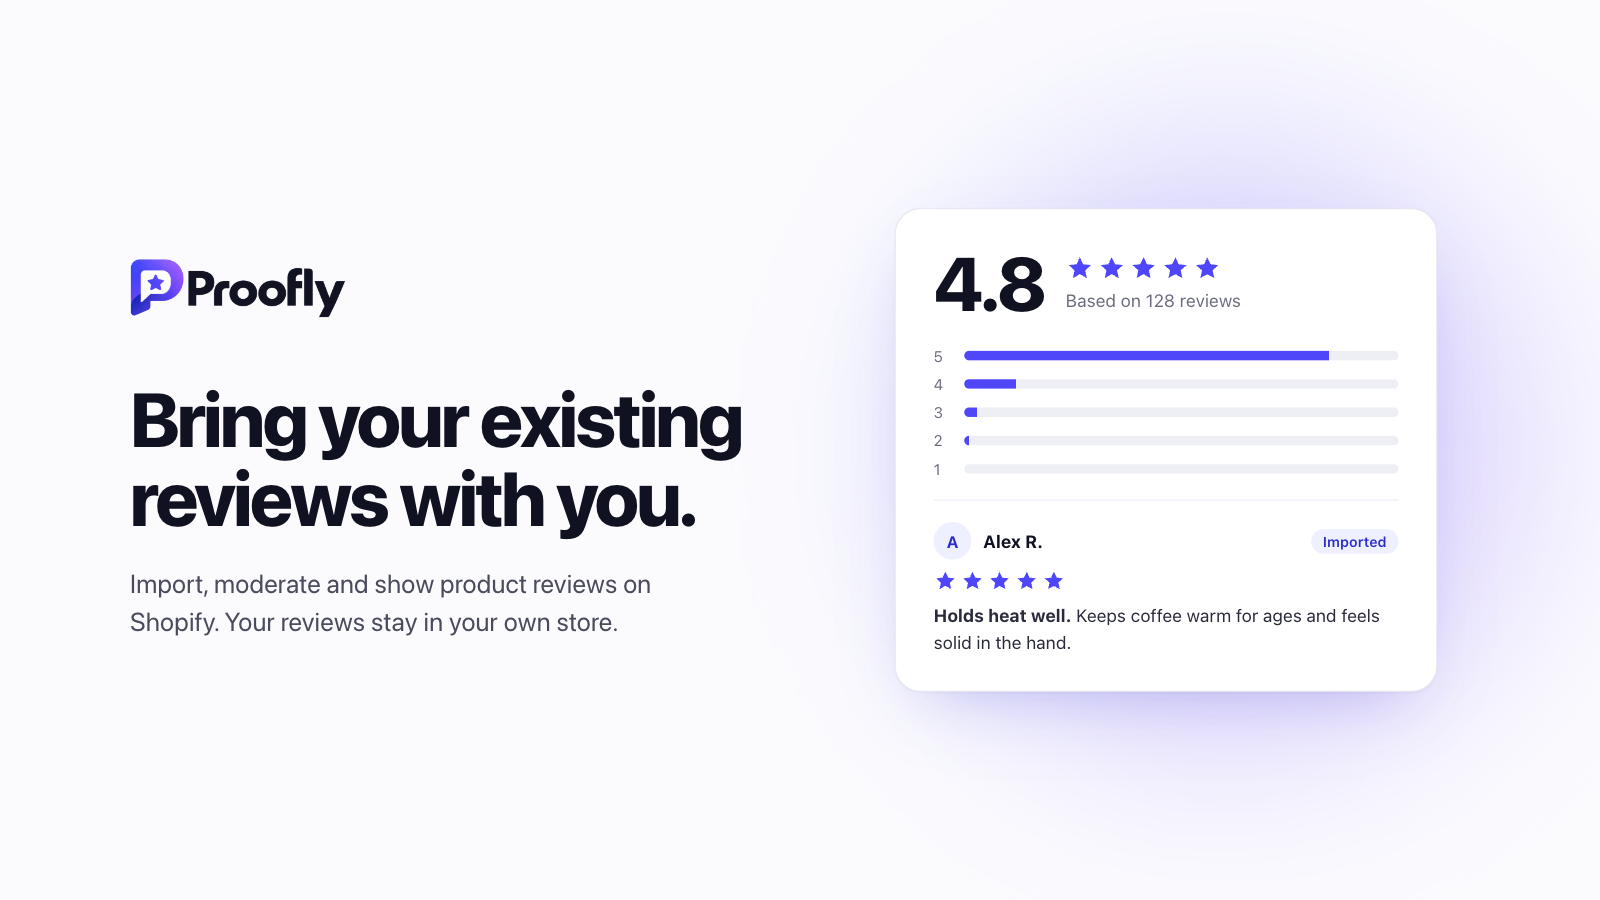
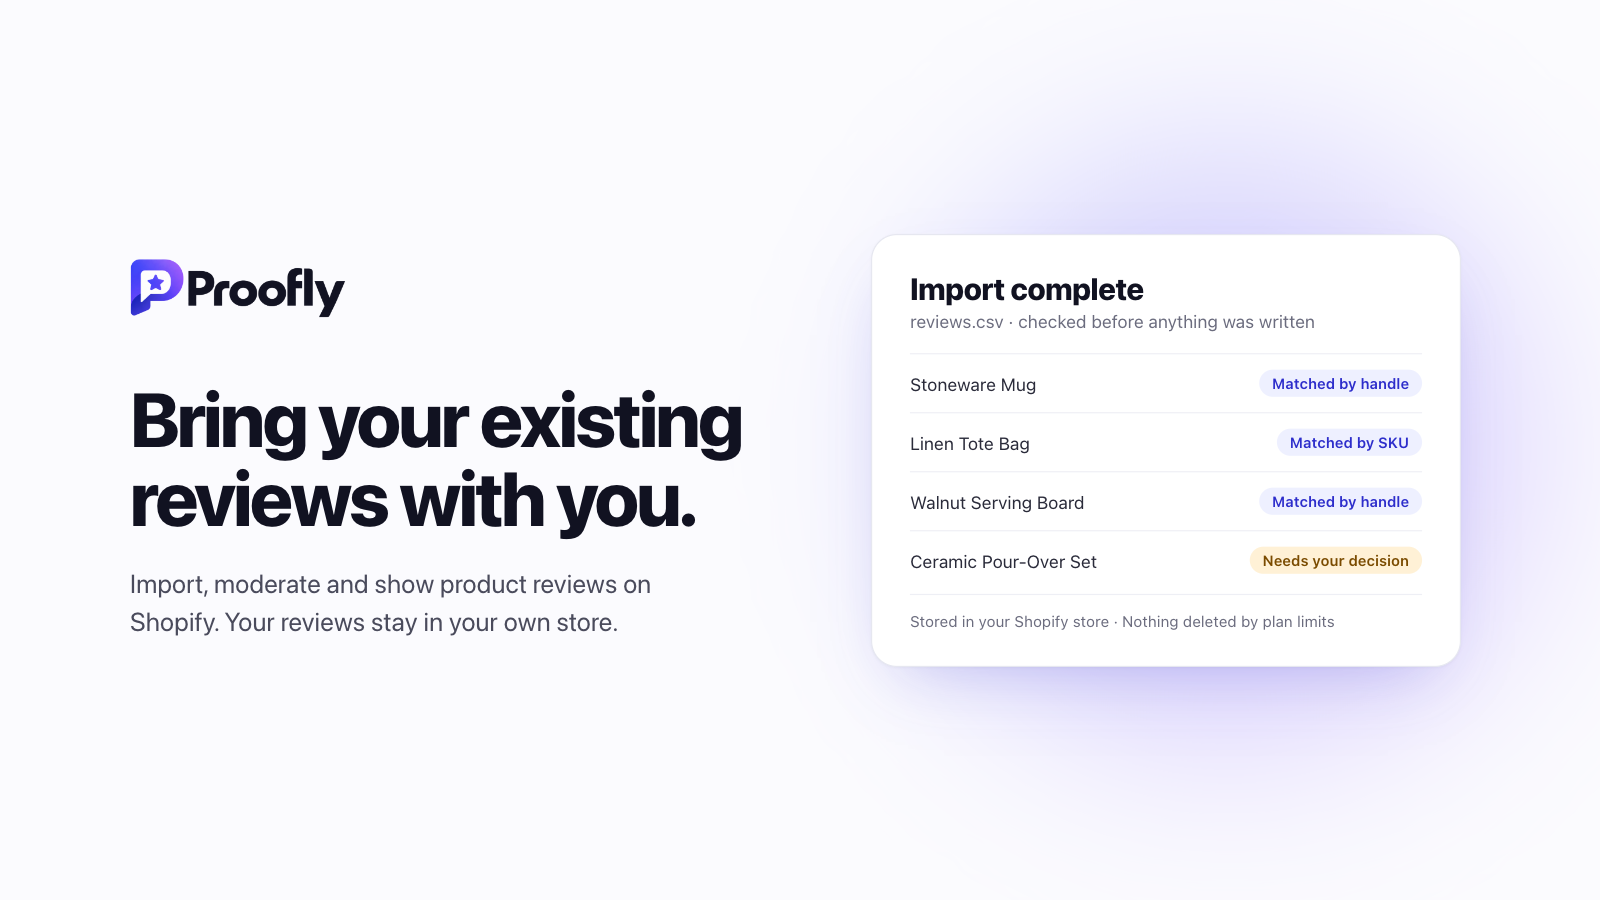
Feature image shows the import, with no ratings, counts or quotes (App Store 1.1.4 factual listing)

Changed region(s): [[0.5625, 0.2178, 0.9375, 0.7778], [0.5312, 0.4356, 0.6562, 0.56], [0.625, 0.5289, 0.6562, 0.56]]

diff --git a/brand/source/build.py b/brand/source/build.py
@@ -33,6 +33,18 @@ CARD = f"""
   </div>
 </div>"""
 
+
+IMPORT_CARD = """
+<div class="card imp">
+  <div class="imp-h">Import complete</div>
+  <div class="muted" style="margin:4px 0 18px">reviews.csv · checked before anything was written</div>
+  <div class="row"><span>Stoneware Mug</span><span class="ok">Matched by handle</span></div>
+  <div class="row"><span>Linen Tote Bag</span><span class="ok">Matched by SKU</span></div>
+  <div class="row"><span>Walnut Serving Board</span><span class="ok">Matched by handle</span></div>
+  <div class="row"><span>Ceramic Pour-Over Set</span><span class="wait">Needs your decision</span></div>
+  <div class="foot">Stored in your Shopify store · Nothing deleted by plan limits</div>
+</div>"""
+
 BASE_CSS = """
 @import url('https://fonts.googleapis.com/css2?family=Inter:wght@400;500;600;800&display=swap');
 * { box-sizing: border-box; margin: 0; padding: 0; }
@@ -65,6 +77,11 @@ h1 { font-weight: 800; letter-spacing: -0.035em; line-height: 1.04; font-size: v
 .av { width: 32px; height: 32px; border-radius: 50%; background: #EEF0FF; color: #2D2DCB; display: grid; place-items: center;
   font-weight: 700; font-size: 14px; }
 .badge { margin-left: auto; font-size: 12px; font-weight: 600; color: #2D2DCB; background: #EEF0FF; border-radius: 99px; padding: 3px 10px; }
+.imp { width: 500px; } .imp-h { font-size: 26px; font-weight: 800; letter-spacing: -0.02em; }
+.row { display: flex; justify-content: space-between; align-items: center; padding: 13px 0; border-top: 1px solid #EEEFF5; font-size: 15px; color: #2a2b3a; }
+.ok, .wait { font-size: 12.5px; font-weight: 600; border-radius: 99px; padding: 4px 11px; }
+.ok { color: #2D2DCB; background: #EEF0FF; } .wait { color: #7a4b00; background: #FFF1D6; }
+.foot { border-top: 1px solid #EEEFF5; margin-top: 4px; padding-top: 14px; font-size: 13px; color: #6b6c7e; }
 .rev p { font-size: 15px; line-height: 1.5; color: #2a2b3a; margin-top: 8px; }
 """
 
@@ -80,7 +97,7 @@ ASSETS = {
       <div class="glow g1"></div>
       <div class="wrap"><div><img class="logo" src="logo-trim.png" alt="Proofly">
         <h1 style="margin:56px 0 28px">{H}</h1><p class="sub">{S}</p></div>
-        <div style="display:grid;place-items:center">{CARD}</div></div>"""),
+        <div style="display:grid;place-items:center">{IMPORT}</div></div>"""),
     # Link preview (Open Graph / Twitter card), 1200×630.
     "social/proofly-og-1200x630": (1200, 630, """
       <style>:root{--logo-h:44px;--h1:58px;--sub:21px;--sub-w:30ch}
@@ -140,7 +157,7 @@ ASSETS = {
 
 def render(name, w, h, body):
     html = (f"<!doctype html><html><head><meta charset='utf-8'><style>:root{{--W:{w}px;--H:{h}px}}{BASE_CSS}</style></head>"
-            f"<body>{body.replace('{H}', HEADLINE).replace('{S}', SUB).replace('{CARD}', CARD)}</body></html>")
+            f"<body>{body.replace('{H}', HEADLINE).replace('{S}', SUB).replace('{CARD}', CARD).replace('{IMPORT}', IMPORT_CARD)}</body></html>")
     out = ROOT / "brand" / f"{name}.png"
     out.parent.mkdir(parents=True, exist_ok=True)
     with tempfile.NamedTemporaryFile("w", suffix=".html", dir=SRC, delete=False) as f:
